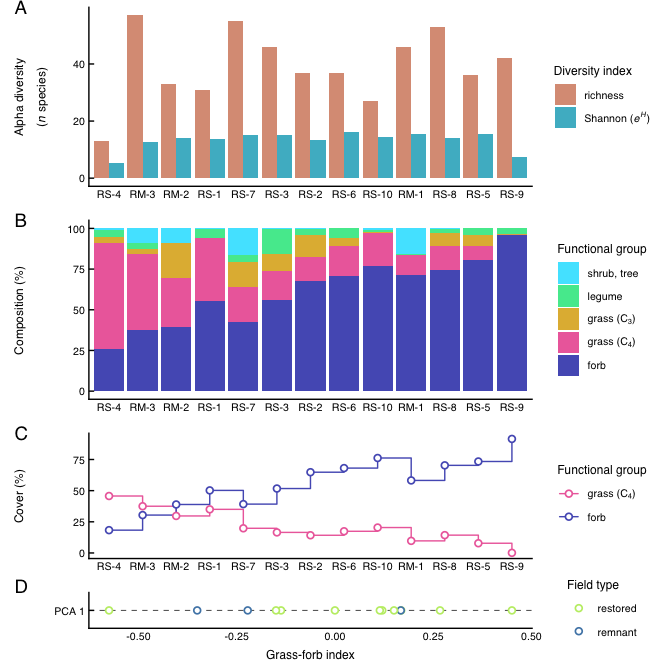
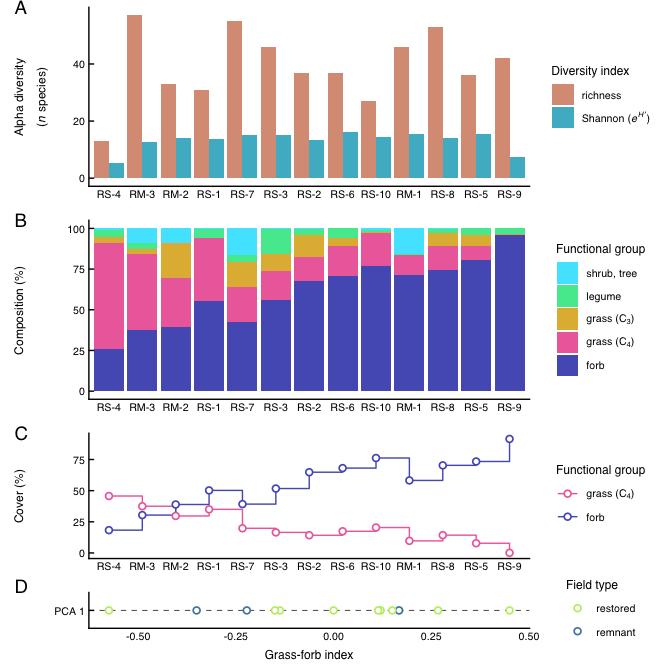
REFRESHED reports

diff --git a/fungal_ecology.md b/fungal_ecology.md
@@ -2,7 +2,7 @@ Results: Soil Fungal Communities
 ================
 Beau Larkin
 
-Last updated: 13 January, 2026
+Last updated: 14 January, 2026
 
 - [Description](#description)
 - [Packages and libraries](#packages-and-libraries)
@@ -399,7 +399,7 @@ plt_div <-
   geom_col(aes(fill = var), position = position_dodge()) +
   labs(x = NULL, y = expression(atop("Alpha diversity", paste("(", italic(n), " species)")))) +
   scale_fill_discrete_qualitative(name = "Diversity index", palette = "Dynamic", 
-                                  labels = c(expression("richness"), expression(paste("Shannon (", italic(e)^italic(H), ")")))) +
+                                  labels = c(expression("richness"), expression(paste("Shannon (", italic(e)^{italic(H)*"\u2032"}, ")")))) +
   theme_cor +
   theme(plot.tag = element_text(size = 14, face = 1, hjust = 0),
         plot.tag.position = c(0, 1))
@@ -4195,7 +4195,11 @@ Diagnostic reveals noisy fit and lots of structure. Decompose biomass
 and sequence abundance in a model to test changes in each given the
 other.
 
-Multiple, weighted logistic glm
+Multiple, weighted logistic glm Note on interpretation: exponentiated
+coefficients are interpreted as odds ratios for pathogen dominance
+within the fungal community. Sequence abundances are used as analytic
+weights so that sites with higher sequencing depth contributed
+proportionally more information to the likelihood.
 
 ``` r
 patho_gf_glm <- glm(patho_prop ~ fungi_mass_lc + gf_index,

diff --git a/sites.md b/sites.md
@@ -2,7 +2,7 @@ Site locations and pairwise distances
 ================
 Beau Larkin
 
-Last updated: 13 January, 2026
+Last updated: 14 January, 2026
 
 - [Description](#description)
 - [Package and library installation](#package-and-library-installation)

diff --git a/edaphic.md b/edaphic.md
@@ -2,7 +2,7 @@ Soil properties
 ================
 Beau Larkin
 
-Last updated: 13 January, 2026
+Last updated: 14 January, 2026
 
 - [Description](#description)
 - [Packages and libraries](#packages-and-libraries)

diff --git a/sequence_data.md b/sequence_data.md
@@ -2,7 +2,7 @@ Species Data: ETL and Diagnostics
 ================
 Beau Larkin
 
-Last updated: 13 January, 2026
+Last updated: 14 January, 2026
 
 - [Description](#description)
 - [Resources](#resources)

diff --git a/functions.md b/functions.md
@@ -2,7 +2,7 @@ Supplement: Functions
 ================
 Beau Larkin
 
-Last updated: 13 January, 2026
+Last updated: 14 January, 2026
 
 - [Description](#description)
   - [Sequence data processing
